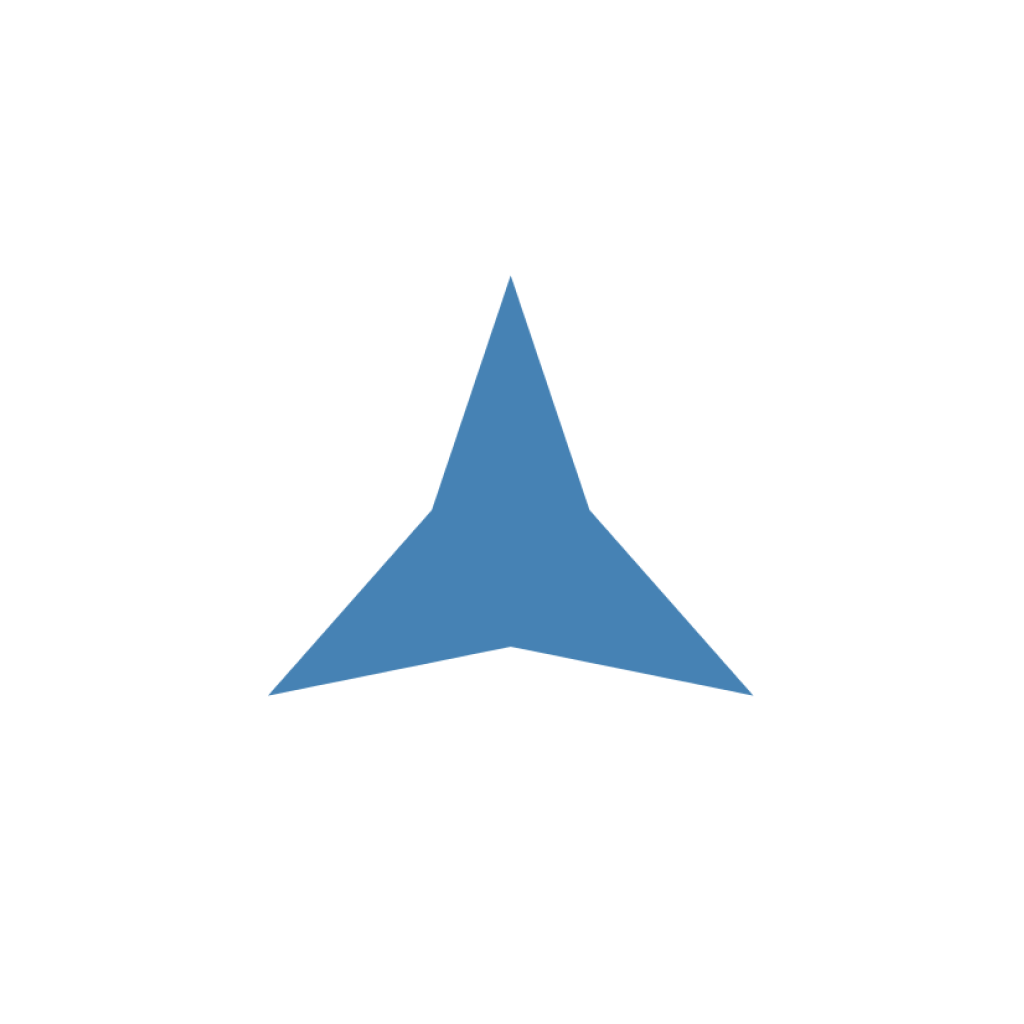
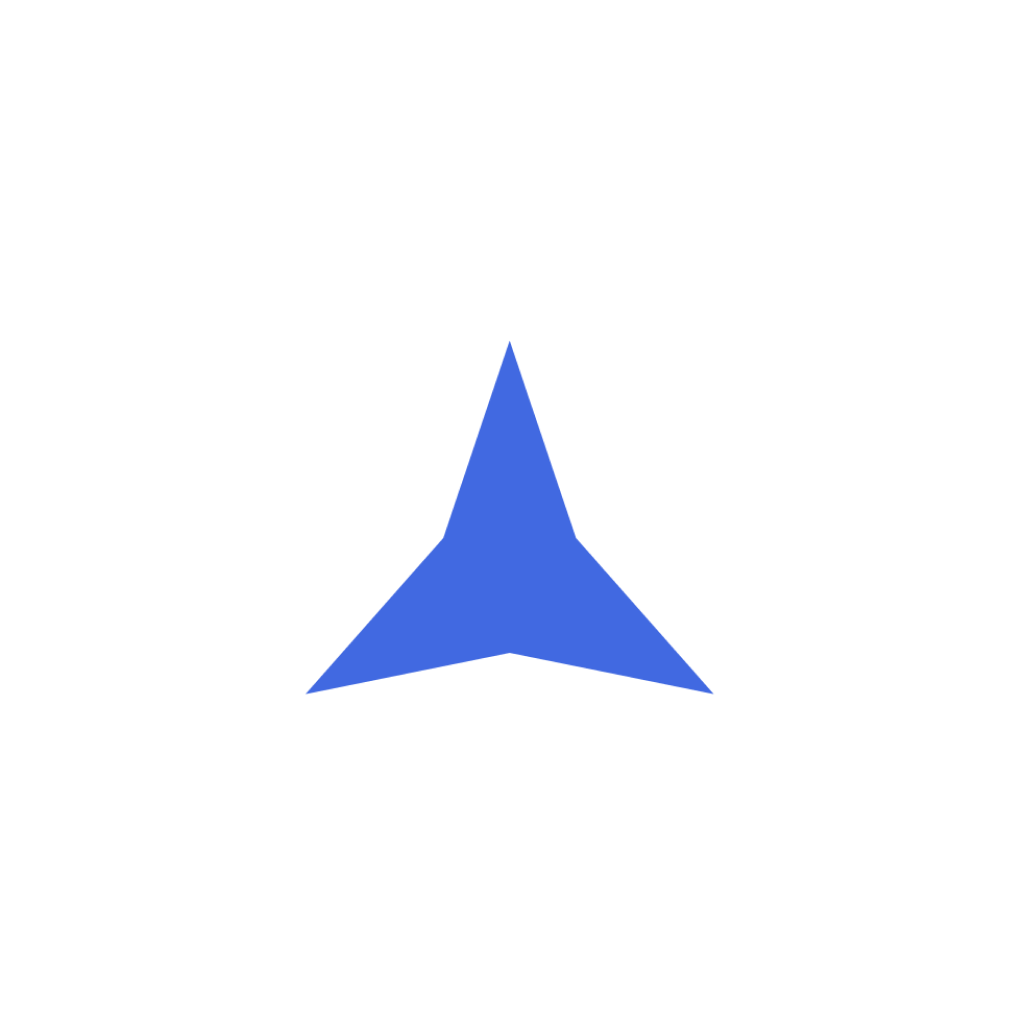
change color scheme to black and royal blue

Changed region(s): [[0.25, 0.2812, 0.75, 0.6875]]

diff --git a/components/Equation.js b/components/Equation.js
@@ -117,7 +117,7 @@ export default function Equation({limit, added}) {
 
 const styles = StyleSheet.create({
     equationWrapper: {
-        backgroundColor: 'steelblue',
+        backgroundColor: 'royalblue',
         borderBottomWidth: 1,
         flexDirection: 'row',
         justifyContent: 'space-around',

diff --git a/components/Title.js b/components/Title.js
@@ -17,7 +17,7 @@ const styles = StyleSheet.create({
         alignItems: 'center',
         borderBottomWidth: 1,
         borderBottomColor: 'white',
-        backgroundColor: 'steelblue',
+        backgroundColor: 'royalblue',
         padding: 10 * PixelRatio.getFontScale(),
     },
 });
